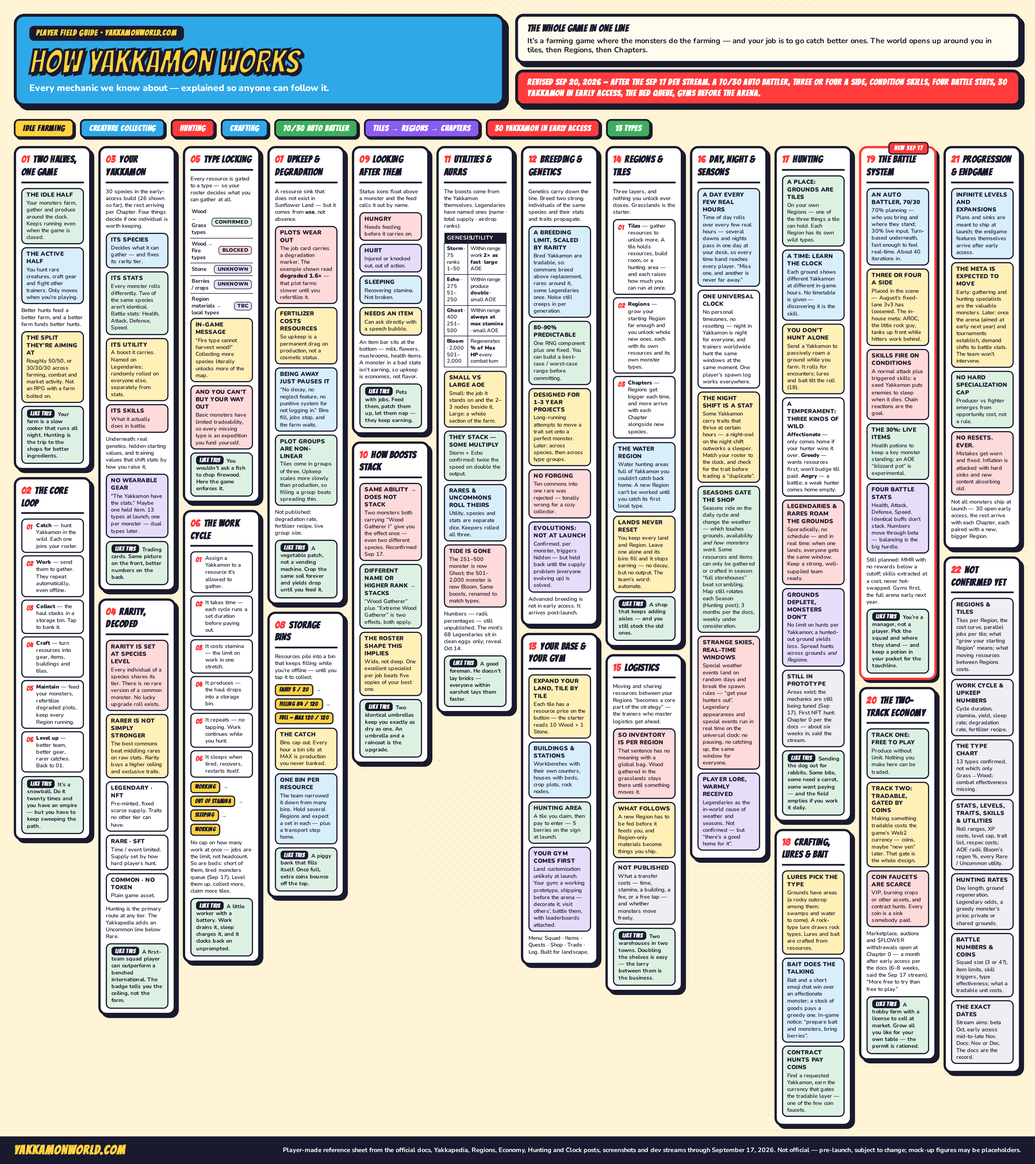
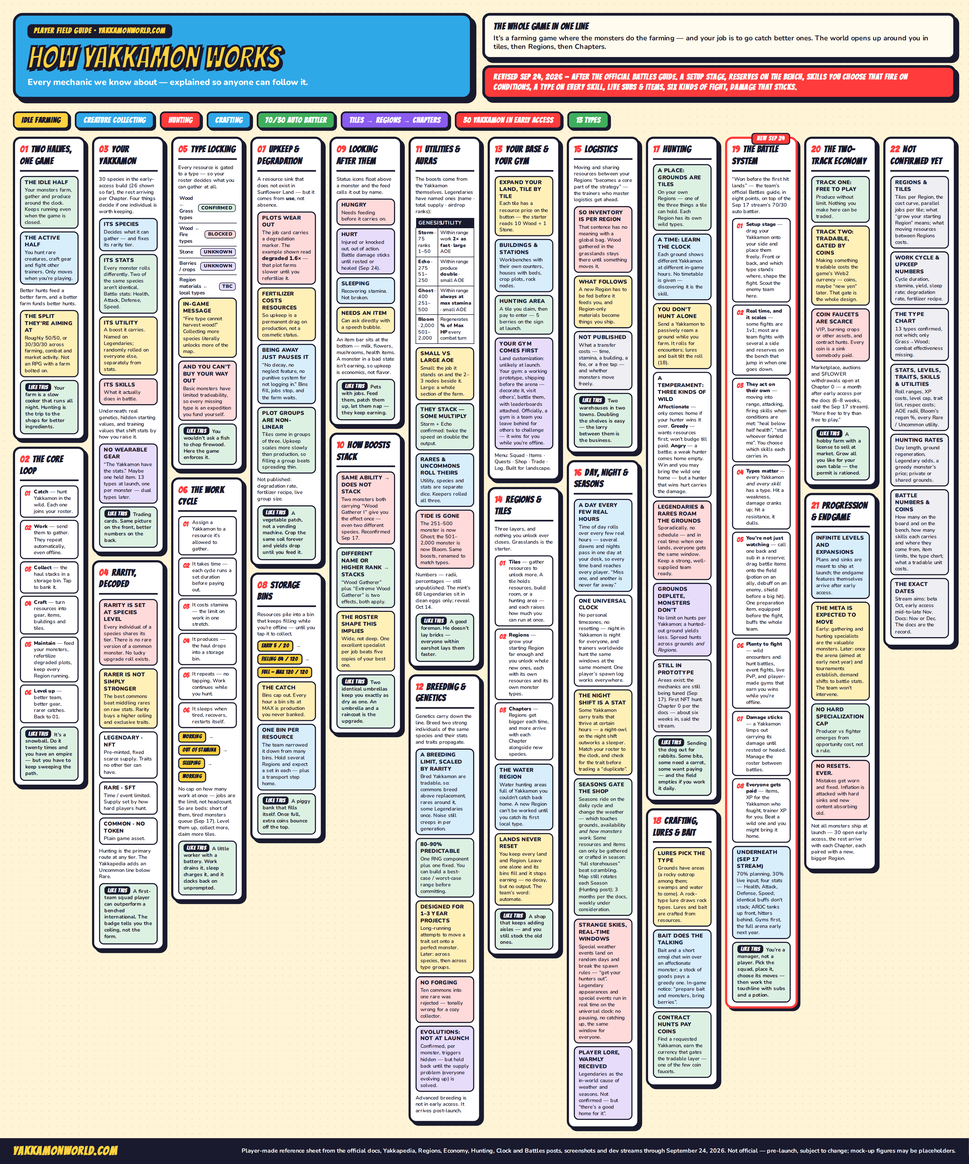
Add files via upload

diff --git a/gameplay-poster-source.html b/gameplay-poster-source.html
@@ -10,7 +10,7 @@
   the full version is the same page at deviceScaleFactor min(2.222, 4096/height)
   so its longest side never exceeds X's 4096px resize threshold (3882x4096 now).
   Edit the panels below, re-render, replace both PNGs and the width/height
-  attributes on gameplay.html's <img>. Revision: September 20, 2026, after the Sep 17 dev stream (22 panels, 12 columns).
+  attributes on gameplay.html's <img>. Revision: September 24, 2026, after the official Battles guide (22 panels, 12 columns).
 -->
 <style>
 @import url('https://fonts.googleapis.com/css2?family=Bangers&family=Nunito:wght@500;600;700;800;900&display=swap');
@@ -74,7 +74,7 @@ td{border:1.5px solid var(--ink);padding:3px 4px;vertical-align:top;overflow-wra
   </div>
   <div class="head-r">
     <div class="oneline"><b>THE WHOLE GAME IN ONE LINE</b><span>It&rsquo;s a farming game where the monsters do the farming &mdash; and your job is to go catch better ones. The world opens up around you in tiles, then Regions, then Chapters.</span></div>
-    <div class="rev">REVISED SEP 20, 2026 &mdash; AFTER THE SEP 17 DEV STREAM. A 70/30 AUTO BATTLER, THREE OR FOUR A SIDE, CONDITION SKILLS, FOUR BATTLE STATS, 30 YAKKAMON IN EARLY ACCESS, THE BED QUEUE, GYMS BEFORE THE ARENA.</div>
+    <div class="rev">REVISED SEP 24, 2026 &mdash; AFTER THE OFFICIAL BATTLES GUIDE. A SETUP STAGE, RESERVES ON THE BENCH, SKILLS YOU CHOOSE THAT FIRE ON CONDITIONS, A TYPE ON EVERY SKILL, LIVE SUBS &amp; ITEMS, SIX KINDS OF FIGHT, DAMAGE THAT STICKS.</div>
   </div>
 </div>
 
@@ -181,7 +181,7 @@ td{border:1.5px solid var(--ink);padding:3px 4px;vertical-align:top;overflow-wra
   <h2><i>09</i>LOOKING AFTER THEM</h2>
   <p>Status icons float above a monster and the feed calls it out by name.</p>
   <div class="card red"><b>Hungry</b>Needs feeding before it carries on.</div>
-  <div class="card purple"><b>Hurt</b>Injured or knocked out, out of action.</div>
+  <div class="card purple"><b>Hurt</b>Injured or knocked out, out of action. Battle damage sticks until rested or healed (Sep 24).</div>
   <div class="card sky"><b>Sleeping</b>Recovering stamina. Not broken.</div>
   <div class="card yellow"><b>Needs an item</b>Can ask directly with a speech bubble.</div>
   <p>An item bar sits at the bottom &mdash; milk, flowers, mushrooms, health items. A monster in a bad state isn&rsquo;t earning, so upkeep is economics, not flavor.</p>
@@ -230,7 +230,7 @@ td{border:1.5px solid var(--ink);padding:3px 4px;vertical-align:top;overflow-wra
   <div class="card yellow"><b>Expand your land, tile by tile</b>Each tile has a resource price on the button &mdash; the starter reads 10 Wood + 1 Stone.</div>
   <div class="card sky"><b>Buildings &amp; stations</b>Workbenches with their own counters, houses with beds, crop plots, rock nodes.</div>
   <div class="card green"><b>Hunting Area</b>A tile you claim, then pay to enter &mdash; 5 berries on the sign at launch.</div>
-  <div class="card purple"><b>Your gym comes first</b>Land customization: unlikely at launch. Your gym: a working prototype, shipping before the arena &mdash; decorate it, visit others&rsquo;, battle them, with leaderboards attached.</div>
+  <div class="card purple"><b>Your gym comes first</b>Land customization: unlikely at launch. Your gym: a working prototype, shipping before the arena &mdash; decorate it, visit others&rsquo;, battle them, with leaderboards attached. Officially, a gym is a team you leave behind for others to challenge &mdash; it wins for you while you&rsquo;re offline.</div>
   <p>Menu: Squad &middot; Items &middot; Quests &middot; Shop &middot; Trade &middot; Log. Built for landscape.</p>
 </div>
 
@@ -271,7 +271,7 @@ td{border:1.5px solid var(--ink);padding:3px 4px;vertical-align:top;overflow-wra
   <div class="card green"><b>A place: grounds are tiles</b>On your own Regions &mdash; one of the three things a tile can hold. Each Region has its own wild types.</div>
   <div class="card sky"><b>A time: learn the clock</b>Each ground shows different Yakkamon at different in-game hours. No timetable is given &mdash; discovering it is the skill.</div>
   <div class="card yellow"><b>You don&rsquo;t hunt alone</b>Send a Yakkamon to passively roam a ground while you farm. It rolls for encounters; lures and bait tilt the roll (18).</div>
-  <div class="card"><b>A temperament: three kinds of wild</b><em>Affectionate</em> &mdash; only comes home if your hunter wins it over. <em>Greedy</em> &mdash; wants resources first; won&rsquo;t budge till paid. <em>Angry</em> &mdash; a battle; a weak hunter comes home empty.</div>
+  <div class="card"><b>A temperament: three kinds of wild</b><em>Affectionate</em> &mdash; only comes home if your hunter wins it over. <em>Greedy</em> &mdash; wants resources first; won&rsquo;t budge till paid. <em>Angry</em> &mdash; a battle; a weak hunter comes home empty. Win and you may bring the wild one home &mdash; but a hunter that wins hurt carries the damage.</div>
   <div class="card red"><b>Legendaries &amp; Rares roam the grounds</b>Sporadically, no schedule &mdash; and in real time: when one lands, everyone gets the same window. Keep a strong, well-supplied team ready.</div>
   <div class="card purple"><b>Grounds deplete, monsters don&rsquo;t</b>No limit on hunts per Yakkamon; a hunted-out ground yields less. Spread hunts across grounds <i>and Regions</i>.</div>
   <div class="card grey"><b>Still in prototype</b>Areas exist; the mechanics are still being tuned (Sep 17). First NFT hunt: Chapter 0 per the docs &mdash; about six weeks in, said the stream.</div>
@@ -286,15 +286,21 @@ td{border:1.5px solid var(--ink);padding:3px 4px;vertical-align:top;overflow-wra
 </div>
 
 <div class="panel new">
-  <span class="tag">NEW SEP 17</span>
+  <span class="tag">NEW SEP 24</span>
   <h2><i>19</i>THE BATTLE SYSTEM</h2>
-  <div class="card sky"><b>An auto battler, 70/30</b>70% planning &mdash; who you bring and where they stand; 30% live input. Turn-based underneath, fast enough to feel real-time. About 40 iterations in.</div>
-  <div class="card yellow"><b>Three or four a side</b>Placed in the scene &mdash; August&rsquo;s fixed-lane 3v3 has loosened. The in-house meta: AROC, the little rock guy, tanks up front while hitters work behind.</div>
-  <div class="card red"><b>Skills fire on conditions</b>A normal attack plus triggered skills: a seed Yakkamon puts enemies to sleep when it dies. Chain reactions are the goal.</div>
-  <div class="card green"><b>The 30%: live items</b>Health potions to keep a key monster standing; an AOE &ldquo;blizzard pot&rdquo; is experimental.</div>
-  <div class="card purple"><b>Four battle stats</b>Health, Attack, Defense, Speed. Identical buffs don&rsquo;t stack. Numbers move through beta &mdash; balancing is the big hurdle.</div>
-  <p>Still planned: MMR with no rewards below a cutoff; skills extracted at a cost, never hot-swapped. Gyms first, the full arena early next year.</p>
-  <div class="like"><em>LIKE THIS</em>You&rsquo;re a manager, not a player. Pick the squad and where they stand &mdash; and keep a potion in your pocket for the touchline.</div>
+  <p>&ldquo;Won before the first hit lands&rdquo; &mdash; the team&rsquo;s official Battles guide, in eight points, on top of the Sep 17 stream&rsquo;s 70/30 auto battler.</p>
+  <ol class="steps">
+    <li><b>Setup stage</b> &mdash; drag your Yakkamon onto your side and place them freely. Front or back, and which type stands where, shape the fight. Scout the enemy team here.</li>
+    <li><b>Real time, and it scales</b> &mdash; some fights are 1v1; most are team fights with several a side and reserves on the bench that jump in when one goes down.</li>
+    <li><b>They act on their own</b> &mdash; moving into range, attacking, firing skills when conditions are met: &ldquo;heal below half health&rdquo;, &ldquo;stun whoever fainted me&rdquo;. You choose which skills each carries in.</li>
+    <li><b>Types matter</b> &mdash; every Yakkamon <i>and every skill</i> has a type. Hit a weakness, damage cranks up; hit a resistance, it dulls.</li>
+    <li><b>You&rsquo;re not just watching</b> &mdash; call one back and sub in a reserve; drag battle items onto the field (potion on an ally, debuff on an enemy, shield before a big hit). One preparation item, equipped before the fight, buffs the whole team.</li>
+    <li><b>Plenty to fight</b> &mdash; wild encounters and hunt battles, event fights, live PvP, and player-made gyms that earn you wins while you&rsquo;re offline.</li>
+    <li><b>Damage sticks</b> &mdash; a Yakkamon limps out carrying its damage until rested or healed. Manage the roster between battles.</li>
+    <li><b>Everyone gets paid</b> &mdash; items, XP for the Yakkamon who fought, trainer XP for you. Beat a wild one and you might bring it home.</li>
+  </ol>
+  <div class="card sky"><b>Underneath (Sep 17 stream)</b>70% planning, 30% live input; four stats &mdash; Health, Attack, Defense, Speed; identical buffs don&rsquo;t stack; AROC tanks up front, hitters behind. Gyms first, the full arena early next year.</div>
+  <div class="like"><em>LIKE THIS</em>You&rsquo;re a manager, not a player. Pick the squad, place it, choose its moves &mdash; then work the touchline with subs and a potion.</div>
 </div>
 
 <div class="panel">
@@ -322,7 +328,7 @@ td{border:1.5px solid var(--ink);padding:3px 4px;vertical-align:top;overflow-wra
   <div class="card grey"><b>The type chart</b>13 types confirmed, not which; only Grass&rarr;Wood; combat effectiveness missing.</div>
   <div class="card grey"><b>Stats, levels, traits, skills &amp; utilities</b>Roll ranges, XP costs, level cap, trait list, respec costs; AOE radii, Bloom&rsquo;s regen %, every Rare / Uncommon utility.</div>
   <div class="card grey"><b>Hunting rates</b>Day length, ground regeneration, Legendary odds, a greedy monster&rsquo;s price; private or shared grounds.</div>
-  <div class="card grey"><b>Battle numbers &amp; coins</b>Squad size (3 or 4?), item limits, skill triggers, type effectiveness; what a tradable unit costs.</div>
+  <div class="card grey"><b>Battle numbers &amp; coins</b>How many on the board and on the bench, how many skills each carries and where they come from, item limits, the type chart; what a tradable unit costs.</div>
   <div class="card grey"><b>The exact dates</b>Stream aims: beta Oct, early access mid-to-late Nov. Docs: Nov or Dec. The docs are the record.</div>
 </div>
 
@@ -330,7 +336,7 @@ td{border:1.5px solid var(--ink);padding:3px 4px;vertical-align:top;overflow-wra
 
 <div class="foot">
   <b>YAKKAMONWORLD.COM</b>
-  <span>Player-made reference sheet from the official docs, Yakkapedia, Regions, Economy, Hunting and Clock posts, screenshots and dev streams through September 17, 2026. Not official &mdash; pre-launch, subject to change; mock-up figures may be placeholders.</span>
+  <span>Player-made reference sheet from the official docs, Yakkapedia, Regions, Economy, Hunting, Clock and Battles posts, screenshots and dev streams through September 24, 2026. Not official &mdash; pre-launch, subject to change; mock-up figures may be placeholders.</span>
 </div>
 
 </div>

diff --git a/gameplay.html b/gameplay.html
@@ -106,13 +106,13 @@
 <section class="poster-band" id="poster">
   <div class="poster-inner">
     <div class="section-head"><h2>THE WHOLE GAME, ONE PAGE</h2></div>
-    <p class="poster-rev">Revised September 20, 2026 &mdash; after the September 17 dev stream. The Battle System panel is rebuilt (70/30 auto battler, three or four a side, condition skills, live items, Health / Attack / Defense / Speed), and seven more panels are touched: 30 Yakkamon in the early-access build, the bed queue, gyms before the arena, lands that never reset, hunting still in prototype, the stream&rsquo;s dates beside the docs&rsquo;, and the mint&rsquo;s Legendaries in clean eggs only. Twenty-two panels.</p>
+    <p class="poster-rev">Revised September 24, 2026 &mdash; after the official <a href="article-battles-explained.html">Battles guide</a>. The Battle System panel is rebuilt around its eight points: a setup stage with free placement, real-time fights that scale from 1v1 to team fights with reserves on the bench, skills you choose that fire on conditions, a type on every Yakkamon and every skill, live substitutions and battle items plus one preparation item, six kinds of fight including gyms that win for you offline, damage that sticks until rested, and rewards in items and experience &mdash; with the September 17 stream&rsquo;s 70/30 auto battler and four stats underneath. Looking After Them, Your Gym, Hunting and Not Confirmed Yet each picked up a line. Twenty-two panels.</p>
     <figure class="poster-figure">
       <a class="poster-link" href="gameplay-poster-full.png" target="_blank" rel="noopener" title="Open the full-size poster">
-        <img src="gameplay-poster.png" width="1800" height="2025" loading="lazy" decoding="async" alt="Field guide poster explaining how Yakkamon works, revised September 20, 2026: the idle and active halves, the six-step core loop, thirty Yakkamon in the early-access build and what makes an individual worth keeping, rarity set at species level, type locking, the work and stamina cycle with beds as capacity, plot upkeep from use not absence, storage bins, monster care, how boosts stack, the Genesis Legendaries' utilities and auras with small and large AOE, breeding limits and genetics, your base and a gym that ships before the arena, the three-layer world of tiles, Regions and Chapters where lands never reset, logistics between Regions, a universal clock that turns every few real hours with hour traits and weather events, seasonal gather-and-craft gates, hunting grounds on the in-game clock with affectionate, greedy and angry wild Yakkamon and Legendaries that appear unannounced, still being prototyped, crafting with lures and bait, the 70/30 auto battler with a squad of three or four, condition-triggered skills, live items and four battle stats, the two-track economy, progression and endgame, and the mechanics not yet confirmed.">
+        <img src="gameplay-poster.png" width="1800" height="2163" loading="lazy" decoding="async" alt="Field guide poster explaining how Yakkamon works, revised September 24, 2026: the idle and active halves, the six-step core loop, thirty Yakkamon in the early-access build and what makes an individual worth keeping, rarity set at species level, type locking, the work and stamina cycle with beds as capacity, plot upkeep from use not absence, storage bins, monster care where battle damage sticks until rested, how boosts stack, the Genesis Legendaries' utilities and auras with small and large AOE, breeding limits and genetics, your base and a gym that ships before the arena and wins for you offline, the three-layer world of tiles, Regions and Chapters where lands never reset, logistics between Regions, a universal clock that turns every few real hours with hour traits and weather events, seasonal gather-and-craft gates, hunting grounds on the in-game clock with affectionate, greedy and angry wild Yakkamon and Legendaries that appear unannounced, still being prototyped, crafting with lures and bait, the battle system in the official guide's eight points: a setup stage with free placement, real-time fights that scale from 1v1 to team fights with reserves on the bench, skills you choose that fire on conditions, a type on every Yakkamon and every skill, live substitutions and battle items plus one preparation item, six kinds of fight including offline gyms, damage that sticks, and rewards in items and experience, with the 70/30 auto battler and four stats underneath, the two-track economy, progression and endgame, and the mechanics not yet confirmed.">
       </a>
       <figcaption class="poster-actions">
-        <p class="poster-note">The whole game on one sheet, revised after the September 17 dev stream. <strong>On a phone, read <a href="gameplay-guide.html">the full field guide</a> instead</strong> — same material, laid out for a small screen. Sourced from the <a href="https://docs.yakkamon.com" target="_blank" rel="noopener">official docs</a>, the dev streams and official screenshots; made by us, not the Yakkamon team.</p>
+        <p class="poster-note">The whole game on one sheet, revised after the official Battles guide of September 24. <strong>On a phone, read <a href="gameplay-guide.html">the full field guide</a> instead</strong> — same material, laid out for a small screen. Sourced from the <a href="https://docs.yakkamon.com" target="_blank" rel="noopener">official docs</a>, the dev streams and official screenshots; made by us, not the Yakkamon team.</p>
         <a class="pixel-btn" href="gameplay-guide.html">READ THE FIELD GUIDE &rarr;</a>
         <a class="pixel-btn alt" href="gameplay-poster-full.png" target="_blank" rel="noopener">OPEN FULL SIZE &#8599;</a>
       </figcaption>

diff --git a/article-gameplay-guide-live.html b/article-gameplay-guide-live.html
@@ -147,7 +147,7 @@
       <p>Pulled together, it's a good deal more mechanical than the marketing copy suggests. Our <a href="gameplay.html">Gameplay section</a> has been rebuilt around it, going from seven systems to fourteen, and there's a new <a href="gameplay-guide.html">full field guide</a> that reads the whole thing top to bottom.</p>
 
       <figure style="margin:26px 0">
-        <a href="gameplay-poster-full.png" target="_blank" rel="noopener"><img src="gameplay-poster.png" width="1800" height="2025" loading="lazy" decoding="async" style="border:3px solid var(--ink); border-radius:14px; width:100%; height:auto; min-width:0" alt="Field guide poster explaining how Yakkamon works, revised August 21, 2026: the idle and active halves and the time split the team is aiming at, the six-step core loop, what makes an individual Yakkamon worth keeping, rarity set at species level, type locking, the work and stamina cycle, plot upkeep and degradation, storage bins, monster care, how boosts stack, breeding and genetics, evolutions, your base and gym, the living world, hunting and crafting, the lane-based 3v3 auto-battler, progression and endgame, platform and access, a quick reference table, and the mechanics not yet confirmed."></a>
+        <a href="gameplay-poster-full.png" target="_blank" rel="noopener"><img src="gameplay-poster.png" width="1800" height="2163" loading="lazy" decoding="async" style="border:3px solid var(--ink); border-radius:14px; width:100%; height:auto; min-width:0" alt="Field guide poster explaining how Yakkamon works, revised August 21, 2026: the idle and active halves and the time split the team is aiming at, the six-step core loop, what makes an individual Yakkamon worth keeping, rarity set at species level, type locking, the work and stamina cycle, plot upkeep and degradation, storage bins, monster care, how boosts stack, breeding and genetics, evolutions, your base and gym, the living world, hunting and crafting, the lane-based 3v3 auto-battler, progression and endgame, platform and access, a quick reference table, and the mechanics not yet confirmed."></a>
         <figcaption class="img-caption" style="margin:10px 0 0">The whole thing on one sheet &mdash; tap to open it full size, or <a href="gameplay-guide.html">read the guide</a> if you're on a phone.</figcaption>
       </figure>
 

diff --git a/search.js b/search.js
@@ -255,7 +255,7 @@ const SEARCH_INDEX = [
   { tag: "News", title: "Reward Track: What You Unlock as You Climb", excerpt: "How the weekly reward cycle works (updated \u2014 the old points-milestone track no longer applies).", url: "article-reward-track-explained.html" },
 
   { tag: "Gameplay", title: "Gameplay systems", excerpt: "The seven core systems that make up Yakkamon.", url: "gameplay.html" },
-  { tag: "Gameplay", title: "How Yakkamon works \u2014 poster", excerpt: "One-page field guide: the idle half where monsters farm around the clock, the active half of hunting, crafting and arena battles, plus the six-step core loop.", url: "gameplay.html" },
+  { tag: "Gameplay", title: "How Yakkamon works \u2014 poster", excerpt: "One-page field guide, revised September 24, 2026 after the official Battles guide: the idle half where monsters farm around the clock, the active half of hunting, crafting and battles, the six-step core loop, and a Battle System panel in eight points \u2014 setup stage, bench, condition skills you choose, types on every skill, live subs and items, six kinds of fight, damage that sticks, rewards.", url: "gameplay.html#poster" },
   { tag: "News", title: "What We Now Know About How Yakkamon Actually Plays", excerpt: "Type locking, stamina, overflowing storage bins and monsters with needs \u2014 the gathering loop explained, and the Gameplay section rebuilt around it.", url: "article-gameplay-guide-live.html" },
   { tag: "News", title: "What can I actually do in Yakkamon?", excerpt: "Catch monsters, put them to work gathering on a stamina cycle, bank the haul from storage bins, craft gear, then hunt something rarer.", url: "article-gameplay-guide-live.html" },
   { tag: "News", title: "Can I trust the Yakkamon screenshots going around?", excerpt: "Partly. Many are UI mock-ups \u2014 the 999,999 currency values and level 99 cap are filler, not confirmed limits.", url: "article-gameplay-guide-live.html" },

diff --git a/article-dev-stream-three-recap.html b/article-dev-stream-three-recap.html
@@ -146,7 +146,7 @@
       <p>Four things changed how you should plan a roster. Our <a href="gameplay.html">Gameplay section</a> has gone from 14 systems to 22, and the field guide poster has been redrawn around them.</p>
 
       <figure style="margin:26px 0">
-        <a href="gameplay-poster-full.png" target="_blank" rel="noopener"><img src="gameplay-poster.png" width="1800" height="2025" loading="lazy" decoding="async" style="border:3px solid var(--ink); border-radius:14px; width:100%; height:auto; min-width:0" alt="Revised Yakkamon field guide poster with twenty panels, including new sections on rarity, plot upkeep and degradation, boost stacking, the lane-based 3v3 battle system, and progression and endgame."></a>
+        <a href="gameplay-poster-full.png" target="_blank" rel="noopener"><img src="gameplay-poster.png" width="1800" height="2163" loading="lazy" decoding="async" style="border:3px solid var(--ink); border-radius:14px; width:100%; height:auto; min-width:0" alt="Revised Yakkamon field guide poster with twenty panels, including new sections on rarity, plot upkeep and degradation, boost stacking, the lane-based 3v3 battle system, and progression and endgame."></a>
         <figcaption class="img-caption" style="margin:10px 0 0">The revised sheet &mdash; five new panels and a six-step core loop. Tap to open it full size, or <a href="gameplay-guide.html">read the guide</a> if you&rsquo;re on a phone.</figcaption>
       </figure>
 

diff --git a/README.md b/README.md
@@ -289,8 +289,8 @@ yakkamonworld/                    ← flat: no css/ or js/ subdirectories
    ├─ favicon.ico / -32 / -192 / apple-touch-icon
    ├─ og-default.png              1200×630 — default social card
    ├─ free-mint-by-the-numbers-og.png  1600×900 — social card for the free-mint odds article (the X infographic at 1×)
-   ├─ gameplay-poster.png         1800×2025 — in-page field guide poster (rendered from gameplay-poster-source.html)
-   ├─ gameplay-poster-full.png    3641×4096 — full size, longest side capped at X's 4096px limit
+   ├─ gameplay-poster.png         1800×2163 — in-page field guide poster (rendered from gameplay-poster-source.html)
+   ├─ gameplay-poster-full.png    3409×4096 — full size, longest side capped at X's 4096px limit
    ├─ gameplay-poster-source.html  the poster as HTML — edit, render at 1800px wide, replace both PNGs
    ├─ yakkamon-roster*.jpg        Official roster sheets, each with a -2x. LIVE: the original 18 (the dated figure in the roster article) and the current 26-sheet (13 Sep, five rows, 688×469). SUPERSEDED and now referenced by nothing — the 21- (25 Aug), 22- (31 Aug) and 23-sheets (8 Sep): ~603 KB, deletable by hand on GitHub
    ├─ fm-bat / fm-moth / fm-pony / fm-duck / fm-egg .webp   Former free-mint hero sprites — no longer referenced since the hero came down on 17 Sep 2026, deletable by hand on GitHub
@@ -375,6 +375,30 @@ throughout the articles and would break silently.
 
 Then update the quick-reference table in `gameplay.html`, the matching section
 in `gameplay-guide.html`, and add search entries.
+
+### Re-render the gameplay poster
+
+`gameplay-poster-source.html` is the poster as HTML (22 numbered panels, balanced
+into 12 columns by the `__rebalance()` script at the bottom). Edit the panels,
+the red `.rev` banner and the footer's "through <date>" line, then render:
+
+1. Open the source in Chromium at a 1800px-wide viewport, wait for
+   `document.fonts.ready`, call `window.__rebalance()`, full-page screenshot →
+   `gameplay-poster.png`.
+2. Same page at `deviceScaleFactor = min(2.222, 4096 / pageHeight)` →
+   `gameplay-poster-full.png` (longest side never over X's 4096px limit).
+3. Put the new pixel height into the `<img width="1800" height="…">` on the
+   three embedding pages: `gameplay.html`, `article-gameplay-guide-live.html`,
+   `article-dev-stream-three-recap.html`. Update the `poster-rev` paragraph,
+   the `alt` text and the `poster-note` on `gameplay.html`, the poster's
+   `search.js` entry, and the sizes in the repo layout above.
+
+Sandbox gotcha: if `fonts.googleapis.com` is unreachable, fetch
+`Bangers-Regular.ttf` and `Nunito[wght].ttf` from
+`raw.githubusercontent.com/google/fonts/master/ofl/…` (the `master` branch —
+`main` 404s; URL-encode the brackets), embed them as data-URI `@font-face`
+rules (Nunito is variable: `font-weight: 200 1000`) in place of the `@import`,
+and render from a `file://` copy.
 
 ### Change a free-mint wave time
 
@@ -558,7 +582,7 @@ proxy — and when hunting overflow, ignore elements inside an ancestor with
 
 ## Known quirks
 
-- BATTLES, OFFICIAL POST VS STREAM (Sep 24): the battle system is written from the team's official Battles guide (X, Sept 24, 2026 — verbatim in `chatbot-official-posts.md`) with the Sept 17 stream underneath. Two readings on the site are OURS, flagged as such, and must be revisited when the team publishes numbers: "three or four" = the number on the board at once with a bigger roster on the bench, and "you choose which skills each Yakkamon carries" = a per-fight pick from a pool the monster already owns (vs August's expensive extraction respecs). If either is settled, update together: `gameplay.js` (combat-system, plus the Sept 24 lines in monster-care, your-base, hunting, arena-battles), the battle rows + unknowns on `gameplay.html` AND `gameplay-guide.html`, the guide's #combat cards, `faq.js` (is-combat-a-pure-simulation…, do-types-matter-in-battle, does-battle-damage-carry-over-between-fights, how-many-yakkamon-fight-at-once-and-is-there-a-bench, what-happens-if-my-hunter-loses), the battle entries in `search.js`, and `article-battles-explained.html` (dated — gets a correction callout, not a rewrite). The poster's battle panel (19) still shows the Sept 17 wording and was NOT re-rendered for this post.
+- BATTLES, OFFICIAL POST VS STREAM (Sep 24): the battle system is written from the team's official Battles guide (X, Sept 24, 2026 — verbatim in `chatbot-official-posts.md`) with the Sept 17 stream underneath. Two readings on the site are OURS, flagged as such, and must be revisited when the team publishes numbers: "three or four" = the number on the board at once with a bigger roster on the bench, and "you choose which skills each Yakkamon carries" = a per-fight pick from a pool the monster already owns (vs August's expensive extraction respecs). If either is settled, update together: `gameplay.js` (combat-system, plus the Sept 24 lines in monster-care, your-base, hunting, arena-battles), the battle rows + unknowns on `gameplay.html` AND `gameplay-guide.html`, the guide's #combat cards, `faq.js` (is-combat-a-pure-simulation…, do-types-matter-in-battle, does-battle-damage-carry-over-between-fights, how-many-yakkamon-fight-at-once-and-is-there-a-bench, what-happens-if-my-hunter-loses), the battle entries in `search.js`, and `article-battles-explained.html` (dated — gets a correction callout, not a rewrite). The poster's battle panel (19) was rebuilt around the post's eight points on Sep 24 (NEW SEP 24 tag; panels 09, 13, 17 and 22 each carry a Sep 24 line) — if the readings change, edit `gameplay-poster-source.html` and re-render both PNGs too (see the render recipe under common tasks).
 - GAMEPLAY DATES, STREAM VS DOCS (Sep 20): the gameplay section shows the team's spoken aims from the Sept 17 dev stream (beta October, early access mid-to-late November, first hunt ~6 weeks in, Chapter Zero 6–8 weeks in, arena early next year) BESIDE the official docs' figures (early access November or December, Chapter 0 + first NFT hunt one month after, leaderboard final one week before) and treats the docs as the record. When either side changes, update together: `gameplay.js` (platform-access, arena-battles, economy-layers, hunting), the "Early access" and "Chapter 0 & first hunt" quick-reference rows + "The exact dates" unknown on `gameplay.html` AND `gameplay-guide.html`, the guide's battle-trade and hunting callouts, poster panels 17 / 20 / 22 (re-render), and the search.js entries "When is the Yakkamon beta and early access?" / "Is hunting in early access on day one?".
 - ROSTER COUNT: 30 Yakkamon in the early-access build (Sept 17 stream) vs 26 shown on the public sheet (Sept 13). When the sheet grows, update the "four still unseen" wording in `gameplay.js` (creature-collecting), both roster figcaptions, the recap article + its posts.js body, poster panel 3, and the search.js roster / "How many Yakkamon" entries.
 - PUSH ALERTS: `push-alerts.js` is INERT until a real OneSignal App ID is pasted at its top — no bell renders, nothing loads. `OneSignalSDKWorker.js` must stay at the repo root under exactly that name forever: browsers cache the service-worker registration, so renaming or moving it silently breaks alerts for every existing subscriber. The bell injects itself into `.mh-social` at runtime — the only per-page additions are the `manifest.webmanifest` link in the head and the `push-alerts.js` script tag before `</body>`; `gameplay-poster-source.html` is the one page without the script (it has no masthead). iPhone: iOS only delivers web push from the installed (Add to Home Screen) app — the bell shows those steps to Safari visitors instead of a broken prompt.

diff --git a/CHANGELOG-2026-09-24-battles-poster.md b/CHANGELOG-2026-09-24-battles-poster.md
@@ -1,0 +1,52 @@
+# Changelog — September 24, 2026 — Poster re-rendered for the official Battles guide
+
+## Why
+
+The Sept 24 battles batch rewrote the Gameplay section, the field guide, the FAQ and search around
+the team's official Battles guide, but left the "whole game, one page" poster at its Sept 20 render,
+whose Battle System panel still carried the Sept 17 stream wording. This follow-up brings the
+poster level with the rest of the section.
+
+## Changed — poster
+
+- `gameplay-poster-source.html`
+  - Red revision banner → "REVISED SEP 24, 2026 — AFTER THE OFFICIAL BATTLES GUIDE …".
+  - Panel 19 THE BATTLE SYSTEM rebuilt (tag NEW SEP 24): a one-line lede ("won before the first hit
+    lands"), the guide's eight points as numbered steps (setup stage, real time and scaling with a
+    bench, act on their own with condition skills you choose, types on every skill, subs and battle
+    items plus one preparation item, six kinds of fight, damage sticks, rewards), an "Underneath
+    (Sep 17 stream)" card for the 70/30 split, four stats, no-stacking buffs, AROC up front, gyms
+    before the arena, and a new LIKE THIS.
+  - Panel 09 Hurt card: battle damage sticks until rested or healed.
+  - Panel 13 gym card: a gym is a team you leave behind that wins for you offline.
+  - Panel 17 Angry card: win and you may bring the wild one home; a hunter that wins hurt carries it.
+  - Panel 22 "Battle numbers & coins" unknown: board vs bench size, skills per Yakkamon and where
+    they come from, item limits, the type chart.
+  - Footer sources line: "… Hunting, Clock and Battles posts … through September 24, 2026".
+- `gameplay-poster.png` re-rendered → 1800×2163 (was 1800×2025); `gameplay-poster-full.png` →
+  3409×4096 (was 3641×4096). Balanced into 12 columns as before; 22 panels.
+
+## Changed — pages
+
+- `gameplay.html`: `poster-rev` paragraph rewritten for the Sept 24 revision (links the Battles
+  article), `alt` text rewritten, `poster-note` now says "revised after the official Battles guide
+  of September 24", `<img>` height → 2163. The section under the poster was already current from
+  the earlier Sept 24 batch. Sitemap lastmod was already 2026-09-24.
+- `article-gameplay-guide-live.html`, `article-dev-stream-three-recap.html`: `<img>` height →
+  2163 only (embedded poster; no date bump — the articles' own text is unchanged).
+- `search.js`: the "How Yakkamon works — poster" entry now names the Sept 24 revision and the
+  eight battle points, and deep-links to `gameplay.html#poster` (still 471 entries).
+- `README.md`: poster sizes in the repo layout; new common task "Re-render the gameplay poster"
+  (render recipe + sandbox font gotcha); the BATTLES Known-quirk now says the poster IS rebuilt and
+  must be re-rendered alongside the other spots if the readings change.
+
+## Not changed
+
+- Chatbot: the Battles post is already the top tier-1 entry in `chatbot-official-posts.md`; the
+  poster is an image, so nothing new to feed. `chatbot-knowledge.json` rebuilds on push.
+- `faq.js`, `gameplay.js`, `gameplay-guide.html`, `posts.js`, `sitemap.xml`, `_redirects` — no
+  change; no new slug, so no OneSignal push fires with this upload.
+
+## Pre-ship checks
+
+README checks 1–6 run: see the upload note.
